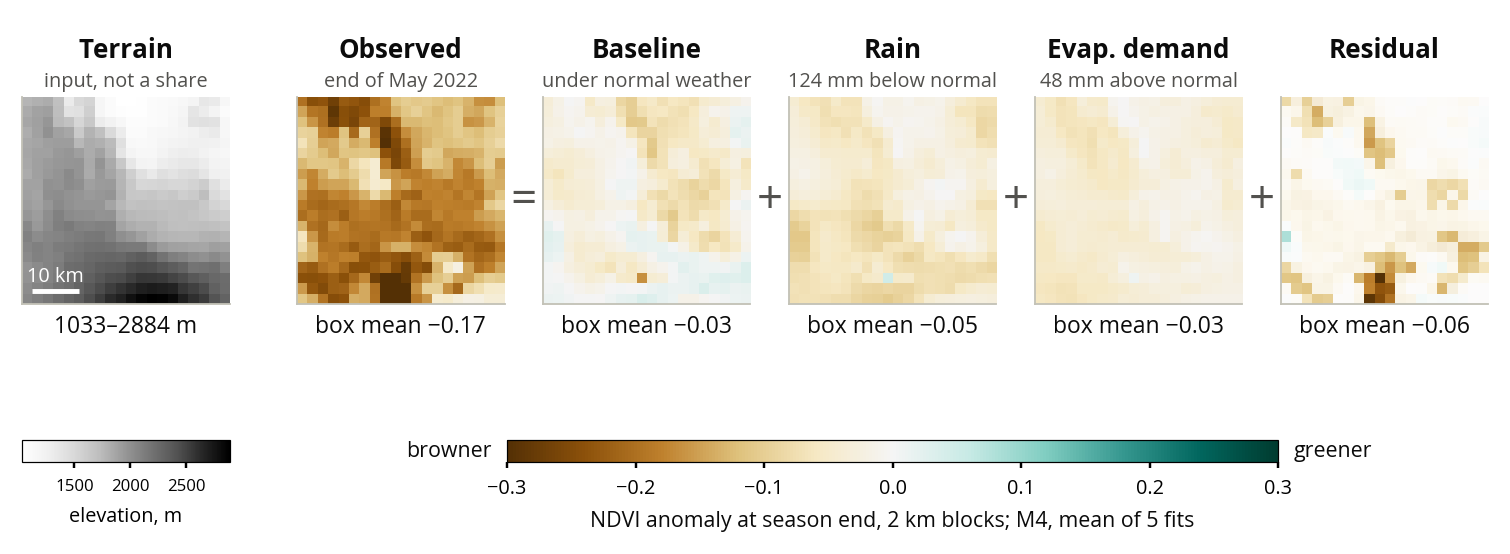
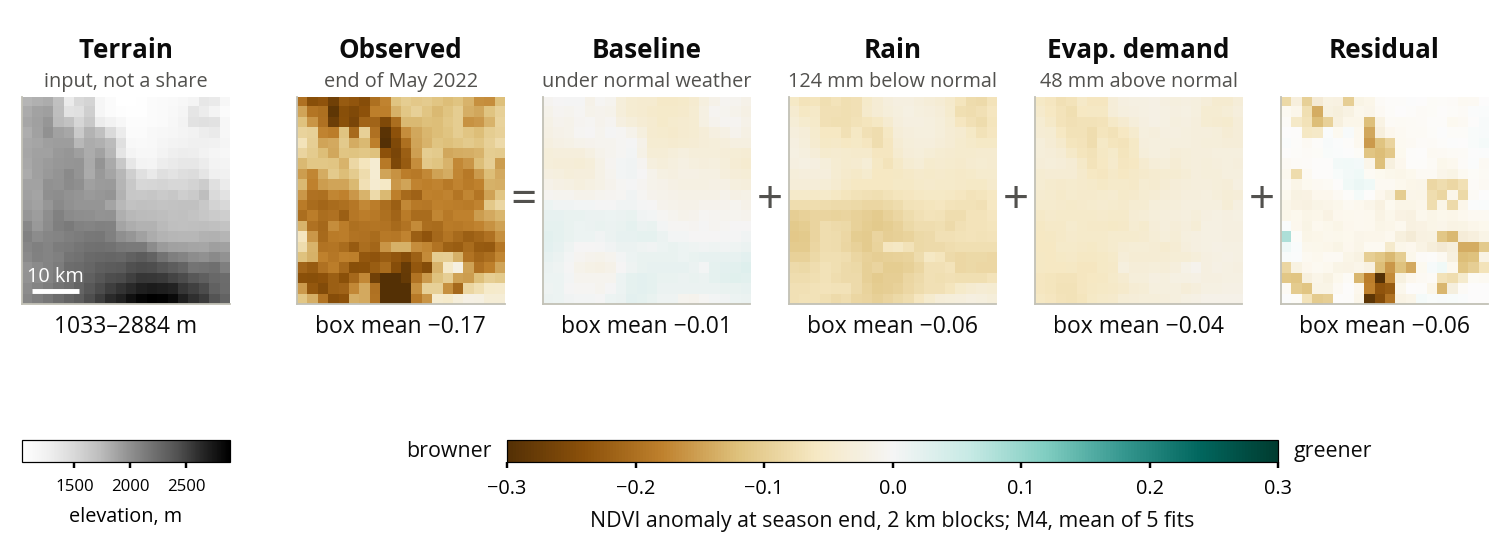
Updated figures (Chronos-2 head to head)

diff --git a/revision/fig_maps_split_m4.py b/revision/fig_maps_split_m4.py
@@ -1,10 +1,11 @@
 """Box A, March-May 2022 with M4 (5-seed ensemble): the season-end anomaly split into maps that add up,
 next to the terrain that shapes them.
 
-Per pixel at season end, NDVI units, averaged over the fits:
-  rain, evaporative demand   Shapley over the two forcings, residual held fixed (m3_attribution.py)
-  residual                   observed - expected (the weather that fell, residual zero)
-  baseline                   observed - rain - demand - residual (the late-Feb state run on under normal weather)
+Per pixel at season end, NDVI units, averaged over the fits; every run from the late-Feb state, residual zero:
+  baseline                   the run under normal weather
+  rain, evaporative demand   Shapley over the two forcings (the four weather combinations)
+  residual                   observed - the run under the weather that fell
+Baseline + rain + demand = that run, so the four add up to observed exactly.
 Averaged to 8x8-pixel blocks (~2.2 km), as fig_maps_split.py. Residual blocks inside their own 5-95% range
 over the 2003-17 long-rains seasons are faded. Elevation (Copernicus DEM GLO-30) is an input, not a share.
 
@@ -27,7 +28,7 @@ from run import H  # noqa: E402
 from residual import season_starts  # noqa: E402
 from fig_maps_split import blocks, INK, MUTED, SURF  # noqa: E402  (also sets the Open Sans fonts)
 import m3  # noqa: E402
-from m3_attribution import rerun, implied  # noqa: E402
+from m3_attribution import rerun  # noqa: E402
 
 R, CONFIG, SEEDS = "runs/20261021_0147_m3/gpu", "topo_pet", range(5)
 OUT = "paper/figs/candidates/fig_maps_split_2022_m4"
@@ -41,18 +42,17 @@ def main():
     train = [t for (y, sn, t) in season_starts(d, aoi.TRAIN_YEARS) if sn == "MAM"]
 
     def season(p, w, t):
-        """Season-end maps: observed, rain, demand, residual."""
+        """Season-end maps: observed, baseline, rain, demand, residual."""
         sl = slice(t + 1, t + 1 + H)
         a0, y = D["a"][t], D["a"][sl]
         r, rc, ex, ph = D["r"][sl], D["rclim"][sl], D["ex"][sl], D["phase"][sl]
-        eps, _ = implied(p, s, a0, w[t], y, r, ex, ph)
-        end = lambda rr, ee, e: np.asarray(rerun(p, s, a0, w[t], rr, ee, ph, e)[-1])
+        e0 = jnp.zeros(y.shape)
+        end = lambda rr, ee: np.asarray(rerun(p, s, a0, w[t], rr, ee, ph, e0)[-1])
         ex0 = jnp.zeros_like(ex)
-        obs, cf_r, cf_t, cf_rt = np.asarray(y[-1]), end(rc, ex, eps), end(r, ex0, eps), end(rc, ex0, eps)
-        rain = 0.5 * ((obs - cf_r) + (cf_t - cf_rt))
-        demand = 0.5 * ((obs - cf_t) + (cf_r - cf_rt))
-        resid = obs - end(r, ex, jnp.zeros_like(eps))
-        return obs, rain, demand, resid
+        obs, F, cf_r, cf_t, cf_rt = np.asarray(y[-1]), end(r, ex), end(rc, ex), end(r, ex0), end(rc, ex0)
+        rain = 0.5 * ((F - cf_r) + (cf_t - cf_rt))
+        demand = 0.5 * ((F - cf_t) + (cf_r - cf_rt))
+        return obs, cf_rt, rain, demand, obs - F
 
     ok = d["obs"][t0 + H].astype(bool)
     per_fit, ordinary = [], []
@@ -60,10 +60,8 @@ def main():
         p = {kk: jnp.asarray(v) for kk, v in np.load(f"{R}/params_{CONFIG}_s{k}.npy", allow_pickle=True).item().items()}
         w = m3.w_path(p, D)
         per_fit.append(season(p, w, t0))
-        ordinary.append([blocks(season(p, w, t)[3], d["obs"][t + H].astype(bool)) for t in train])
-    obs, rain, demand, resid = (np.mean(z, 0) for z in zip(*per_fit))
-    carried = obs - rain - demand - resid
-    maps = [blocks(m, ok) for m in (obs, carried, rain, demand, resid)]
+        ordinary.append([blocks(season(p, w, t)[4], d["obs"][t + H].astype(bool)) for t in train])
+    maps = [blocks(np.mean(z, 0), ok) for z in zip(*per_fit)]
     Rr = np.mean(ordinary, 0)                                  # [season, block, block], fit-averaged
     lo, hi = np.nanpercentile(Rr, 5, 0), np.nanpercentile(Rr, 95, 0)
     unusual = (maps[4] < lo) | (maps[4] > hi)

diff --git a/revision/fig_baseline_ab.py b/revision/fig_baseline_ab.py
@@ -1,0 +1,72 @@
+"""Explainer: the two ways to split the 2022 season-end anomaly (Box A, M4 5-seed ensemble, box means), as steps
+from 0 (normal) down to observed.
+
+  A  weather = observed - N_eps (normal weather, surprises kept), residual = observed - F, baseline = leftover
+  B  baseline = N0 (forecast, normal weather), weather = F - N0, residual = observed - F
+Run end values from revision/fig_maps_split_m4.py (old and new split) and the direct N0 check, 2026-10-26.
+
+  .venv/bin/python revision/fig_baseline_ab.py   -> paper/figs/candidates/fig_baseline_ab.png
+"""
+import os
+import sys
+
+import matplotlib
+matplotlib.use("Agg")
+import matplotlib.pyplot as plt
+
+sys.path.insert(0, os.path.dirname(os.path.dirname(os.path.abspath(__file__))))
+from fig_maps_split import INK, MUTED  # noqa: E402  (also sets the Open Sans fonts)
+
+OBS, F, N0, NEPS = -0.168, -0.113, -0.007, -0.084
+BASE, WEATHER, RESID, TOTAL = "#2a78d6", "#eb6834", "#1baf7a", "#52514e"
+OUT = "paper/figs/candidates/fig_baseline_ab"
+
+
+def num(v):
+    return f"{v:+.2f}".replace("-", "−")
+
+
+def panel(ax, title, steps, note):
+    """steps: (name, size, colour, hatch), each starting where the last ended; then the observed total."""
+    level = 0.0
+    for i, (name, size, c, hatch) in enumerate(steps):
+        ax.bar(i, size, bottom=level, width=0.6, color=c, hatch=hatch, edgecolor="white", linewidth=1.5)
+        ax.text(i, level + size - 0.004, num(size), ha="center", va="top", color=INK, fontsize=11)
+        ax.plot([i + 0.3, i + 0.7], [level + size] * 2, color=MUTED, lw=1)
+        level += size
+    n = len(steps)
+    ax.bar(n, OBS, width=0.6, color=TOTAL)
+    ax.text(n, OBS - 0.004, num(OBS), ha="center", va="top", color=INK, fontsize=11)
+    ax.set_xticks(range(n + 1), [s[0] for s in steps] + ["= observed"], fontsize=11)
+    ax.axhline(0, color=INK, lw=1)
+    ax.set_title(title, color=INK, fontsize=13, fontweight="bold", loc="left")
+    ax.text(-0.4, -0.22, note, color=INK, fontsize=10, va="top")
+    for side in ("top", "right", "bottom"):
+        ax.spines[side].set_visible(False)
+    ax.tick_params(axis="x", length=0)
+
+
+def main():
+    fig, (a, b) = plt.subplots(1, 2, figsize=(11, 5.6), sharey=True)
+    leftover = OBS - (OBS - NEPS) - (OBS - F)
+    panel(a, "A  (paper text, old figures)",
+          [("baseline", leftover, BASE, "//"), ("+ weather", OBS - NEPS, WEATHER, None), ("+ residual", OBS - F, RESID, None)],
+          f"baseline = whatever is left: {num(N0)} real + {num(leftover - N0)} mismatch\n"
+          "weather = observed − replay of the season in a normal year\n"
+          "residual = observed − forecast for the actual weather")
+    panel(b, "B  (new figures)",
+          [("baseline", N0, BASE, None), ("+ weather", F - N0, WEATHER, None), ("+ residual", OBS - F, RESID, None)],
+          "baseline = forecast for a normal year\n"
+          "weather = forecast for the actual weather − baseline\n"
+          "residual = observed − forecast for the actual weather")
+    a.set_ylabel("NDVI anomaly, end of May 2022\n(0 = normal)", color=INK, fontsize=11)
+    a.set_ylim(-0.19, 0.01)
+    fig.suptitle("Box A, M4 5-seed ensemble. The residual is the same in both.", color=MUTED, fontsize=10)
+    fig.tight_layout(rect=(0, 0.14, 1, 0.97))
+    os.makedirs(os.path.dirname(OUT), exist_ok=True)
+    fig.savefig(OUT + ".png", dpi=150)
+    print("wrote", OUT + ".png")
+
+
+if __name__ == "__main__":
+    main()

diff --git a/revision/c2.py b/revision/c2.py
@@ -7,6 +7,8 @@ Protocol: runs/20261022_1639_suite/PREREG.md, section "Chronos-2 protocol". Runs
   .venv-chronos/bin/python revision/c2.py world <out> --L 96 [--seasons k]
                                                                     -> c2_world.npz    test 2, the Chronos-2 world
   .venv-chronos/bin/python revision/c2.py drought <out> [--px n]    -> c2_drought.npz  test 3, season-end maps
+  .venv-chronos/bin/python revision/c2.py drought0 <out> <plan dir> [--px n]
+                                                                    -> c2_drought0.npz test 3, zero-residual split
   .venv-chronos/bin/python revision/c2.py sens <out> [--fd]         -> c2_sens.npz     test 4, Delta on the sample
   .venv-chronos/bin/python revision/c2.py cost <out> <plan dir>     -> c2_cost.json    CPU cost, GPU estimate
 --seasons k, --px n: the first k seasons / n sample pixels (debug only).
@@ -248,6 +250,27 @@ def drought(out, n=None):
     print("wrote", f"{out}/c2_drought.npz")
 
 
+def drought0(out, plan, n=None):
+    """As drought, the four weather combinations as median paths (percentile 50 at every step), so the split is
+    baseline (normal weather) + rain + demand (Shapley) + residual (observed - F0), each a direct run."""
+    P, eng = get_plan(plan), Chronos2()
+    t0 = int(P["t0_2022"])
+    d, a, cov = box_series("A")
+    px = np.arange(N * N) if n is None else P["px"][:n]
+    a, cov = a[px], cov[px]
+    y, fc = a[:, t0 + 1:t0 + 1 + H], cov[:, :, t0 + 1:t0 + 1 + H]
+    z0 = np.zeros((len(px), H))
+    nr, nt = fc.copy(), fc.copy()
+    nr[:, 0], nt[:, 1] = 0, 0
+    M, t1 = {"obs": y[:, -1]}, time.time()
+    for k, f in (("F0", fc), ("cf_r0", nr), ("cf_t0", nt), ("cf_rt0", np.zeros_like(fc))):
+        M[k] = roll(eng, a, cov, t0, z0, f)[:, -1]
+        print(f"{k}: {time.time() - t1:.0f} s", flush=True)
+    os.makedirs(out, exist_ok=True)
+    np.savez(f"{out}/c2_drought0.npz", px=px, t0=t0, name=P["name_2022"], device=eng.dev, **M)
+    print("wrote", f"{out}/c2_drought0.npz")
+
+
 def sens(out, fd=False):
     P, eng, res = get_plan(out), Chronos2(), {"method": "autodiff"}
     for box in "AB":
@@ -372,4 +395,4 @@ if __name__ == "__main__":
     cmd, out = sys.argv[1], sys.argv[2]
     {"check": lambda: check(out), "skill": lambda: skill(out), "world": lambda: world(out, arg("--L"), arg("--seasons")),
      "drought": lambda: drought(out, arg("--px")), "sens": lambda: sens(out, "--fd" in sys.argv),
-     "cost": lambda: cost(out, sys.argv[3])}[cmd]()
+     "cost": lambda: cost(out, sys.argv[3]), "drought0": lambda: drought0(out, sys.argv[3], arg("--px"))}[cmd]()

diff --git a/revision/fig_maps_split_c2.py b/revision/fig_maps_split_c2.py
@@ -1,12 +1,13 @@
 """Box A, March-May 2022 with Chronos-2 (zero-shot, with weather): as fig_maps_split_m4.py, same layout.
 
-Per pixel at season end, NDVI units, from runs/20261022_1639_suite/c2_drought.npz (revision/c2.py drought, full box):
-  rain, evaporative demand   Shapley over the two forcings, percentiles held fixed (suite.py drought's formula)
-  residual                   observed - median path under the weather that fell (percentile 50 at every step)
-  baseline                   observed - rain - demand - residual
+Per pixel at season end, NDVI units, from c2_drought0.npz (revision/c2.py drought0, full box, CPU); every run
+from the late-Feb state as the median path (percentile 50 at every step), as fig_maps_split_m4.py:
+  baseline                   the median path under normal weather
+  rain, evaporative demand   Shapley over the two forcings (the four weather combinations)
+  residual                   observed - the median path under the weather that fell
 Residual blocks are not faded: Chronos-2 has no ordinary-season (2003-17) residual range yet.
 
-  .venv/bin/python revision/fig_maps_split_c2.py   -> paper/figs/chronos2/fig_maps_split_2022_c2.png
+  .venv/bin/python revision/fig_maps_split_c2.py [c2_drought0.npz]   -> paper/figs/chronos2/fig_maps_split_2022_c2.png
 """
 import os
 import sys
@@ -21,7 +22,7 @@ from fig_maps_split import blocks  # noqa: E402
 import m3  # noqa: E402
 from fig_maps_split_m4 import draw  # noqa: E402
 
-C2 = "runs/20261022_1639_suite/c2_drought.npz"
+C2 = sys.argv[1] if len(sys.argv) > 1 else "runs/20261026_1312_c2_split0/c2_drought0.npz"
 OUT = "paper/figs/chronos2/fig_maps_split_2022_c2"
 
 
@@ -31,13 +32,12 @@ def main():
     C = np.load(C2)
     assert int(C["t0"]) == t0 and len(C["px"]) == d["a"][0].size
     sq = lambda k: C[k].reshape(d["a"][0].shape)
-    obs, F, cr, ct, crt = map(sq, ("obs", "F", "cf_r", "cf_t", "cf_rt"))
+    obs, F, cr, ct, crt = map(sq, ("obs", "F0", "cf_r0", "cf_t0", "cf_rt0"))
     assert np.allclose(obs, d["a"][t0 + H], atol=1e-6)
-    rain = 0.5 * ((obs - cr) + (ct - crt))
-    demand = 0.5 * ((obs - ct) + (cr - crt))
-    resid = obs - F
+    rain = 0.5 * ((F - cr) + (ct - crt))
+    demand = 0.5 * ((F - ct) + (cr - crt))
     ok = d["obs"][t0 + H].astype(bool)
-    maps = [blocks(m, ok) for m in (obs, obs - rain - demand - resid, rain, demand, resid)]
+    maps = [blocks(m, ok) for m in (obs, crt, rain, demand, obs - F)]
     elev = blocks(np.load("data/A/topo.npz")["elev"])
     means = [float(np.nanmean(m)) for m in maps]
     sl = slice(t0 + 1, t0 + 1 + H)

diff --git a/revision/fig_onestep_skill.py b/revision/fig_onestep_skill.py
@@ -6,7 +6,7 @@ M2 (refit), M3 (+ topography), M4 (+ evaporative demand): 5-seed means of single
 5-seed ensemble (its 1-step rollout skill), runs/20261021_0147_m3/gpu.
 Box B column is 2019-25 only (unseen landscape and unseen years): M1, M1.5, M2 rain removed re-scored from the
 fair-fight fits (runs/20261021_0147_m3/onestep_B_test_paper_models.json); trees from metrics_gbm_B_test.json.
-Chronos-2 rows (zero-shot, history only / given rain and ET0): runs/20261022_1639_suite/tables.md, scored on the suite's
+Chronos-2 row (zero-shot, given rain and ET0): runs/20261022_1639_suite/tables.md, scored on the suite's
 4,000-pixel samples (M4 ensemble on the same pixels: 0.109 / 0.130).
 3-month version (chronos2_3m), rows with both boxes saved: M1 Box A from the fair-fight metrics.json, Box B from
 runs/20261022_1639_suite/tables.md (same M1 fit); trees, M2-M4 and the ensemble from runs/20261021_0147_m3/RESULT.md;
@@ -41,13 +41,12 @@ ROWS = [
     ("M4 (inc. evaporative demand)", 0.103, 0.112),
     ("M4 5-seed ensemble (ours)", 0.111, 0.131),
 ]
-C2 = [("Chronos-2, history only", -0.034, -0.024), ("Chronos-2 (inc. rain & evap.)", 0.058, 0.071)]
+C2 = [("Chronos-2 (inc. rain & evap.)", 0.058, 0.071)]
 ROWS_C2 = ROWS[:4] + C2 + ROWS[4:]  # the zero-shot model beside the other outside baselines
 ROWS_3M = [
     ("M0, history only", 0.000, 0.000),
     ("M1, linear rain", 0.107, 0.099),
     ("Gradient-boosted trees", 0.222, 0.197),
-    ("Chronos-2, history only", 0.052, 0.082),
     ("Chronos-2 (inc. rain & evap.)", 0.271, 0.284),
     ("M2, rain removed", -0.005, -0.048),
     ("M2, learned", 0.241, 0.177),
@@ -94,8 +93,8 @@ if __name__ == "__main__":
     import sys
     os.makedirs("paper/figs/chronos2", exist_ok=True)
     if "chronos2_3m" in sys.argv:
-        chart("paper/figs/chronos2/fig_3month_skill_c2.png", ROWS_3M, x0=-10, figsize=(6.4, 5.0), text=THREE)
+        chart("paper/figs/chronos2/fig_3month_skill_c2.png", ROWS_3M, x0=-10, figsize=(6.4, 4.6), text=THREE)
     elif "chronos2" in sys.argv:
-        chart("paper/figs/chronos2/fig_onestep_skill_c2.png", ROWS_C2, x0=-6, figsize=(6.4, 5.4))
+        chart("paper/figs/chronos2/fig_onestep_skill_c2.png", ROWS_C2, figsize=(6.4, 5.1))
     else:
         chart("paper/figs/fig_onestep_skill.png")

diff --git a/revision/fig_sens_c2.py b/revision/fig_sens_c2.py
@@ -88,7 +88,7 @@ def main(box="A"):
     cb = fig.colorbar(im, cax=cax, orientation="horizontal", ticks=[0, 0.02, 0.04, 0.06, 0.08, 0.10, 0.12, 0.14])
     cb.ax.tick_params(labelsize=6.5, length=2); cb.outline.set_linewidth(0.4)
     cb.set_label("Extra greenness (NDVI) per 100 mm of extra rain, 2 km blocks", fontsize=7, color=INK)
-    cax.text(0.5, 3.0, f"Perfect model has typical error of ~{floor:.0f}% due to interyear noise", transform=cax.transAxes, ha="center", va="center", fontsize=7, color=MUTED)
+    cax.text(0.5, 3.0, f"Even the true sensitivities would show ~{floor:.0f}% typical error, from year-to-year noise", transform=cax.transAxes, ha="center", va="center", fontsize=7, color=MUTED)
     fig.suptitle("How much greener does each place get per 100 mm of extra rain?  Box A", x=0.125, ha="left", y=1.04,
                  fontsize=9.5, fontweight="bold", color=INK)
     os.makedirs(os.path.dirname(OUT), exist_ok=True)
